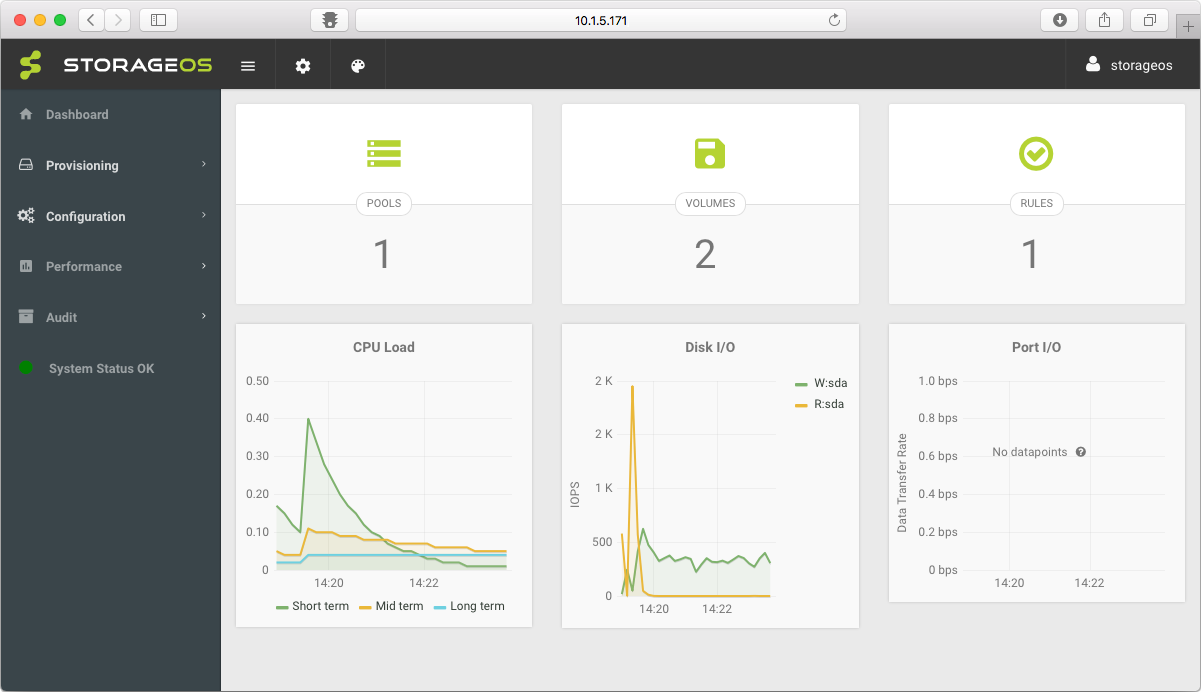
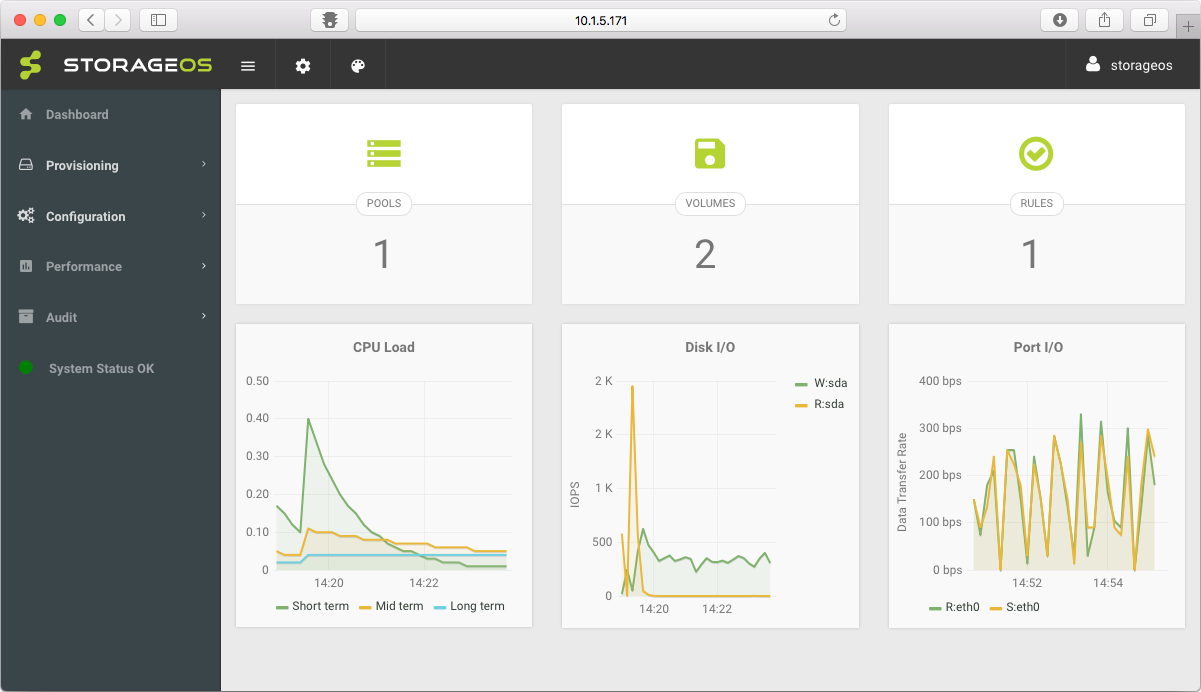
DEV-811-configuration-and-provisioning

Changed region(s): [[0.7394, 0.6069, 0.9858, 0.8801], [0.8318, 0.4855, 0.8934, 0.5159], [0.7702, 0.5462, 0.801, 0.5766]]

diff --git a/_docs/manage/configuring.md b/_docs/manage/configuring.md
@@ -158,52 +158,123 @@ Another option in the *Volume Management* window is the ability to automatically
 
 9. Now you can vew your new volume with the labels applied to it and the features inherited through them, namely the replication feature which we earlier, configured above.
 
-   ![screenshot](/images/docs/manage/newvolume4.png)
+   ![image](/images/docs/manage/newvolume4.png)
 
 ---
 
 ## Controllers
 
-To view the Controllers window, select Configuration &#x27A1; Controllers.  This will provide you with a summary on the nodes participating in the cluster, their available capacity, their role and state of health.
+To view the Controllers window, select Configuration &#x27A1; Controllers.  
 
-![screenshot](/images/docs/manage/controllers.png)
+* This window provides you with a summary on the nodes participating in the cluster, their available capacity, their role and state of health.
+
+  ![image](/images/docs/manage/controllers.png)
 
 ---
 
 ## Drivers
 
-To view the Drivers window, select Configuration &#x27A1; Drivers.  This will provide you with a summary on the nodes participating in the cluster and the name and type of the *Driver* they are using.
+To view the Drivers window, select Configuration &#x27A1; Drivers.  
 
-![screenshot](/images/docs/manage/drivers.png)
+* This window provides you with a summary on the nodes participating in the cluster and the name and type of the *Driver* they are using.
+
+  ![image](/images/docs/manage/drivers.png)
 
 ---
 
 ## Caches
 
-To view the Caches window, select Configuration &#x27A1; Caches.  The cache configuration is a global option across all Data Plane nodes
+To view the Caches window, select Configuration &#x27A1; Caches.  
 
-![screenshot](/images/docs/manage/caches.png)
+* The cache configuration is a global option across all Data Plane nodes.
+
+  ![image](/images/docs/manage/caches.png)
 
 ---
 
 ## Diagnostics
 
+To view the Diagnostics window, select Configuration &#x27A1; Diagnostics.  
+
+* From this window you can create diagnostics bundles for a node you are experiencing issues with or for the entire cluster to post back to StorageOS for extended support.  
+
+  ![image](/images/docs/manage/diagnostics.png)
+
+   >**&#x270F; Note**: Please be aware that the cluster diagnostics bundle size may vary depending on the number of nodes and amount of available log data.
+
 ---
 
 ## Backups
+
+To access the Configuration Backup and Restore window, select Configuration &#x27A1; Backups.  
+
+* To manage backup and restore of the control plane configuration, click on the ![image](/images/docs/manage/backupbtn.png) and ![image](/images/docs/manage/restorebtn.png) buttons to initiate a backup or restore.
+
+  ![image](/images/docs/manage/backups.png)
+
+   >**&#x270F; Note**: Please be aware that during a control plane restoration the current control plane configuration will be overwritten and can not be restored without a backup for that point in time configuration.
+   >
+   >**&#x270F; Note**: Configuration data that is backed up and restored globally applies to the entire cluster.
 
 ---
 
 ## License
 
+To access the License Management window, select Configuration &#x27A1; License.
+
+1. To enter a new license key click on the ![image](/images/docs/manage/licensekeybtn.png) button
+
+   ![image](/images/docs/manage/license.png)
+
+2. Enter the license key *Name* and click on the ![image](/images/docs/manage/savebtn.png) button
+
+   ![image](/images/docs/manage/license1.png)
+
+   >**&#x270F; Note**: For more information on licensing please refer to the Licensing section under *Getting Started*
+
 ---
 
 ## Clients
+
+To access the Client Management window, select Provisioning &#x27A1; Clients.
+
+1. From here you can configure labels for StorageOS nodes and filter the list of nodes in the cluster using labels that have been applied.  For example you may have nodes participating in a performance storage pool configured with SSDs.
+
+2. To configure a label select the ![image](/images/docs/manage/editbtn.png) button, select the labels you want to apply and then accept the changes by clicking on the &#x2714; button.
+
+   ![image](/images/docs/manage/clients.png)
+
+3. Clicking on the ![image](/images/docs/manage/deletebtn.png) button will delete the StorageOS node.
+
+   ![image](/images/docs/manage/deleteclient.png)
 
 ---
 
 ## Pools
 
+The Storage Pools window can be found under Provisioning &#x27A1; Pools.
+
+1. The top half of the Storage Pools window allows you to view the overall status of the global pool and capacity across all nodes in the cluster and create new Storage Pools.
+2. For example, to create a new *Storage Pool* click on the ![image](/images/docs/manage/newpoolbtn.png) button
+
+   ![image](/images/docs/manage/pools.png)
+
+3. Select the StorageOS nodes you want to participate in the pool
+4. Provide it with a *Name* and *Description*
+5. Select the *Controllers*
+6. Add any *Labels*  you want to associate with the new pool
+7. Click on the ![image](/images/docs/manage/savebtn.png) button to complete
+
+   ![image](/images/docs/manage/newpool.png)
+
+   >**&#x270F; Note**: Consider whether you want to allocate nodes to more than one storage pool - typically nodes will join one pool as in the case of disk type for example or if you want to dedicate replicated storage to a specific set of nodes in the cluster.
+
+The second half of the window allows you to make configuration changes to existing *Storage Pools*.
+
+1. To edit an existing *Storage Pool*
+
+
 ---
+
 
 ## Containers

diff --git a/_docs/install/vagrant.md b/_docs/install/vagrant.md
@@ -7,15 +7,15 @@ module: install/vagrant
 
 # Vagrant Installation
 
-To begin the Vagrant installation you will need to your base directory as discussed at the end of the previous section.  So for a developer you might want to use ~/storageos.
+To begin the Vagrant installation you will need to have the StorageOS Vagrantfile installed into your base directory as discussed at the end of the previous section.  So for a developer you might want to choose ~/storageos as your location.
 
-As well as having Vagrant installed, you will also need to have VirtualBox installed which was covered in the previous sections.
+As well as having the Vagrant software installed, you will also need to have the VirtualBox software installed which was covered in the previous sections.
 
 ## Setting up the Vagrant Environment
 
-Before you launch Vagrant for the first time and build out the cluster, you will want to edit the file names Vagrantfile in the base directory.
+Before you launch Vagrant for the first time to build out your cluster, you will want to view the Vagrantfile file in your base directory.
 
-### Modifying the Vagrantfile
+### Viewing or modifying the Vagrantfile
 
 1.  To configure the cluster size and number of clients, the relevant lines can be found at the top of the file.  So for example, if you want a single-node cluster, change the `3` on the `STORAGEOS_NODES` line to `1` or simply set an environment variable from your terminal window:
 
@@ -32,6 +32,7 @@ Before you launch Vagrant for the first time and build out the cluster, you will
     Bringing machine 'storageos-1' up with 'virtualbox' provider...
     Bringing machine 'storageos-2' up with 'virtualbox' provider...
     Bringing machine 'storageos-3' up with 'virtualbox' provider...
+    ...
     ```
 
 2.  After a couple of minutes the installation should be complete - check the Vagrant cluster node status using the `vagrant status` command:

diff --git a/_docs/install/media.md b/_docs/install/media.md
@@ -11,14 +11,11 @@ Depending on your choice of installation, ISO or Vagrant, you need to have compl
 The required media for your installation will have either been provided to you directly by us on a USB flash drive or, alternatively it can be downloaded directly from our web site.
 
 ## <a name="Downloading"></a> Downloading the StorageOS media
-The StorageOS ISO or Vagrant image can be downloaded from one of the following locations to a temporary folder:
+The StorageOS ISO or Vagrantfile can be downloaded from one of the following locations to a temporary folder:
 
   - &#x1F4BF; [ISO Media](https://downloads.storageos.com/images/storageos-ubuntu-16.04-amd64.iso)
   - &#x1F4E6; [Vagrantfile](./Vagrantfile)
 
+>**&#x26A0;** During the closed beta period, a password is required to download the installation media.  Please contact [support@storageos.com](mailto:support@storageos.com) should you require further details.
 
-
-
->**&#x26A0;** During the closed beta period, a password is required to download the installation media.  Please contact [support@storageos.com](mailto:support@storageos.com) for details.
-
-Once downloaded the Vagrant package should be unpacked into a base folder, for example, `~/storageos`, where you will have at least 30GB of available space to bring up a 3-node cluster, and more if you want to make this bigger.
+Once downloaded, the Vagrantfile installer should be moved to a base folder, for example, `~/storageos`, where you will have at least 30GB of available space to bring up a 3-node cluster or more depending on your storage provisioning 'mileage'.

diff --git a/_docs/manage/dashboard.md b/_docs/manage/dashboard.md
@@ -35,7 +35,9 @@ Currently the only exposed counters are average read and write disk I/O operatio
 
 ### Network
 
-Port I/O is curently not reporting against any datapoints.  The default measurment used is bits per second.
+Port I/O presently reports against network-in and network-out in bits per second (bps).  As with the other graphs you can filter out the inbound and outbound data transfer views by clicking on the datapoint you are interested in.
+
+![image](/images/docs/manage/portio.png)
 
 ### Customising Views
 
